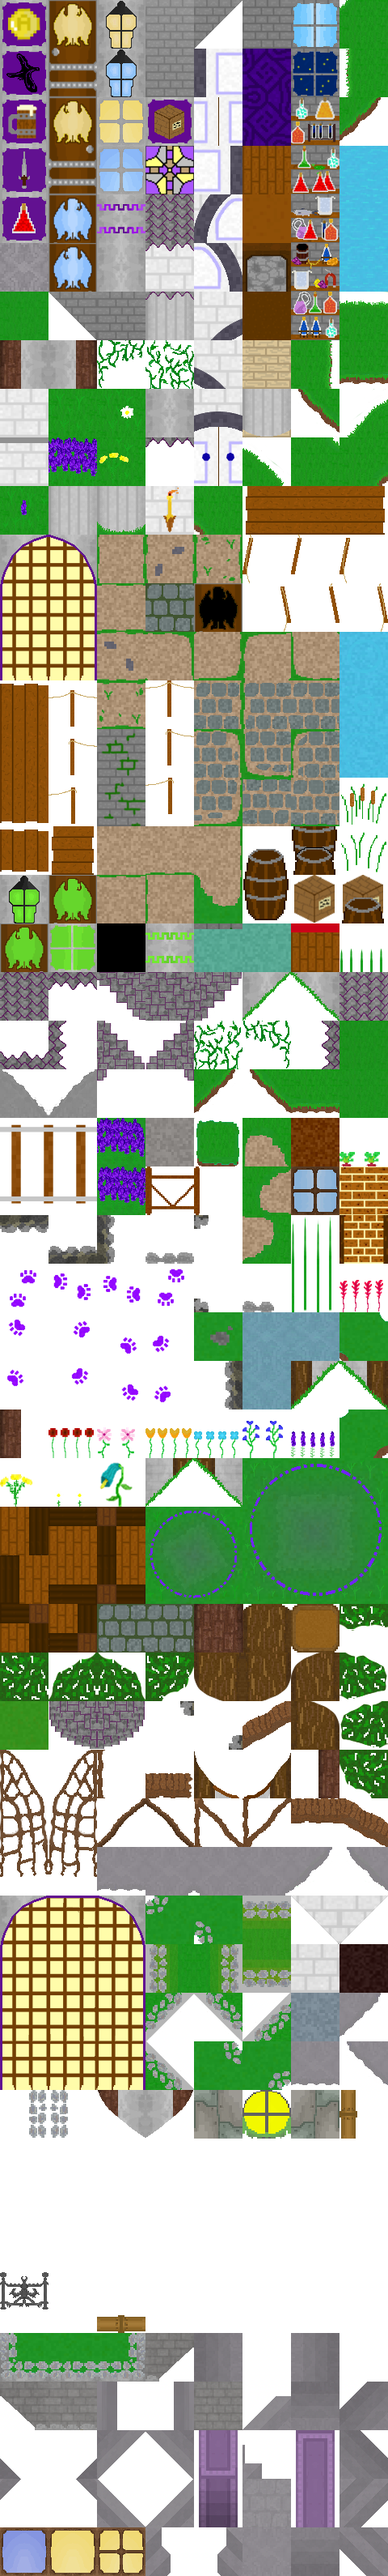
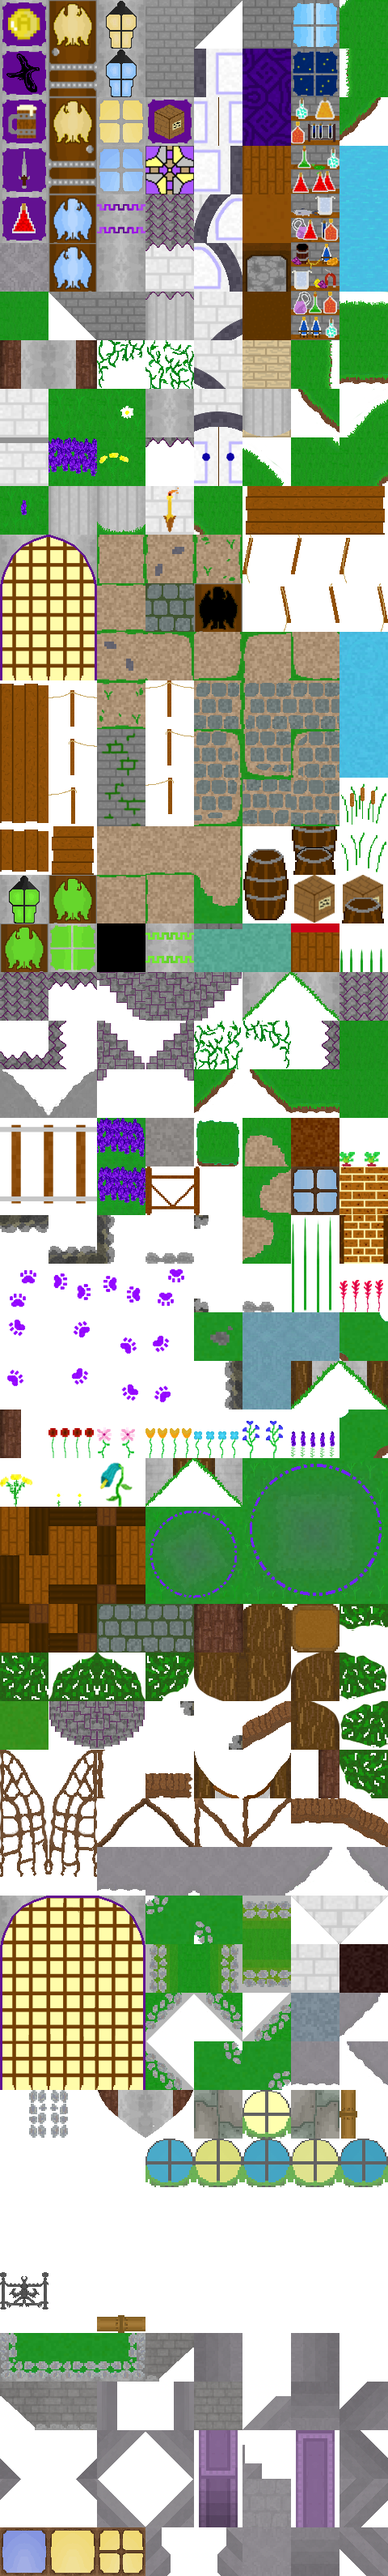
Tinkerers base exterior

Changed region(s): [[0.375, 0.8094, 1.0, 0.8717]]

diff --git a/gamedata/areadata.js b/gamedata/areadata.js
@@ -3481,6 +3481,13 @@ var Areas = {
 			tiles: [307, 343],
 			animateTime: 180,
 		},
+
+		{
+		// Tinkerer Windows!
+		tiles: [356, 358, 359, 350, 357, 360],
+		animateTime: 400,
+		},
+
 		{
 		// water boundary 2
 		tiles: [311, 336],
@@ -3923,6 +3930,10 @@ var Areas = {
 		eaglecrestLampSamhain: {samhain: "assets/objects/eaglecrestLampSamhain.png"},
 		helpNotice: {normal: "assets/objects/helpNotice.png"},
 		buntingEaglecrest: {normal: "assets/objects/buntingEaglecrest.png"},
+		gearSteel: {normal: "assets/objects/gearSteel.png"},
+		gearRust: {normal: "assets/objects/gearRust.png"},
+		siren: {normal: "assets/objects/siren.png"},
+		tinkererChimney: {normal: "assets/objects/tinkererChimney.png"},
 		buntingEaglecrestTinkerers: {normal: "assets/objects/buntingEaglecrestTinkerers.png"},
 		buntingEaglecrest2: {normal: "assets/objects/buntingEaglecrest2.png"},
 		buntingEaglecrest3: {normal: "assets/objects/buntingEaglecrest3.png"},
@@ -4770,7 +4781,67 @@ var Areas = {
 			frameTime: 1000,
 			imagesPerRow: 2,
 			totalImages: 2,
-		},},
+		},
+	},
+
+	{x: [4967.3, 5052.8], y: [2619, 2721.5], z:-1, image: 'gearSteel', name: 'gearSteel',
+	crop: {
+		x: 0,
+		y: 0,
+		width: 135,
+		height: 135
+	},
+	animation: {
+		type: "spritesheet",
+		frameTime: 83,
+		imagesPerRow: 2,
+		totalImages: 2,
+	},
+},
+{x: [5520.1, 4818.1, 5305.4], y: [2760.2, 2569.5, 2241], image: 'tinkererChimney', name: 'tinkererChimney',
+crop: {
+	x: 0,
+	y: 0,
+	width: 140,
+	height: 140
+},
+animation: {
+	type: "spritesheet",
+	frameTime: 200,
+	imagesPerRow: 3,
+	totalImages: 3,
+},
+},
+
+{x: [4880.2, 5031.2, 5377.6], y: [2728.7, 2375.8, 2625.2], image: 'siren', name: 'siren',
+crop: {
+	x: 0,
+	y: 0,
+	width: 32,
+	height: 32
+},
+animation: {
+	type: "spritesheet",
+	frameTime: 200,
+	imagesPerRow: 2,
+	totalImages: 2,
+},
+},
+
+{x: [4967.3, 5052.8, 4953.3], y: [2619, 2721.5, 2717.2], image: 'gearRust', name: 'gearRust',
+crop: {
+	x: 0,
+	y: 0,
+	width: 68,
+	height: 68
+},
+animation: {
+	type: "spritesheet",
+	frameTime: 83,
+	imagesPerRow: 2,
+	totalImages: 2,
+},
+},
 
 		{x: [2763.1, 2606.7, 1318.9, 4898, 6131.9, 2304.2, 691.6, 4684.9, 2693.5, 6805.9, 7972.8, 6477.6, 3750, 3748.2], y: [1242.4, 893, 1715.1, 883.7, 1725.9, 2558.5, 2863.1, 4305, 4185.2, 2873.8, 3894.1, 395.1, 180.5, 4015], z: 1, image: 'buntingEaglecrest', name: 'buntingEaglecrest',
 		crop: {
